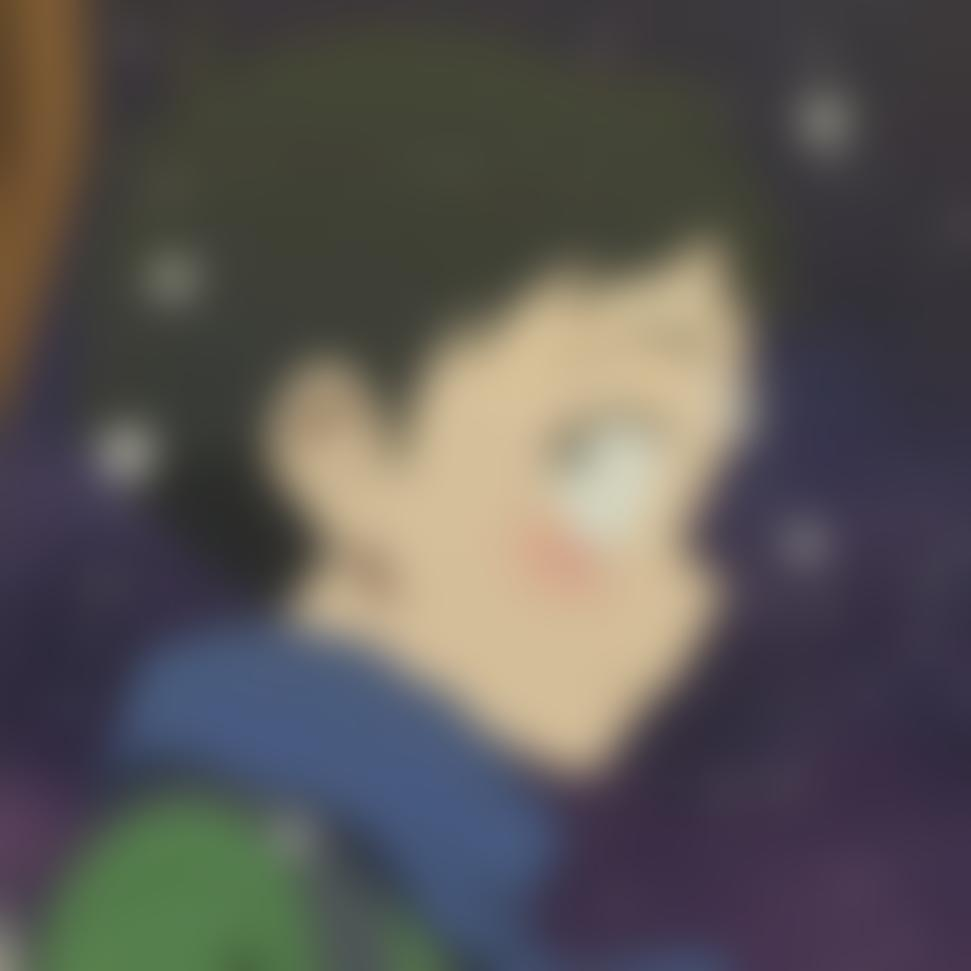
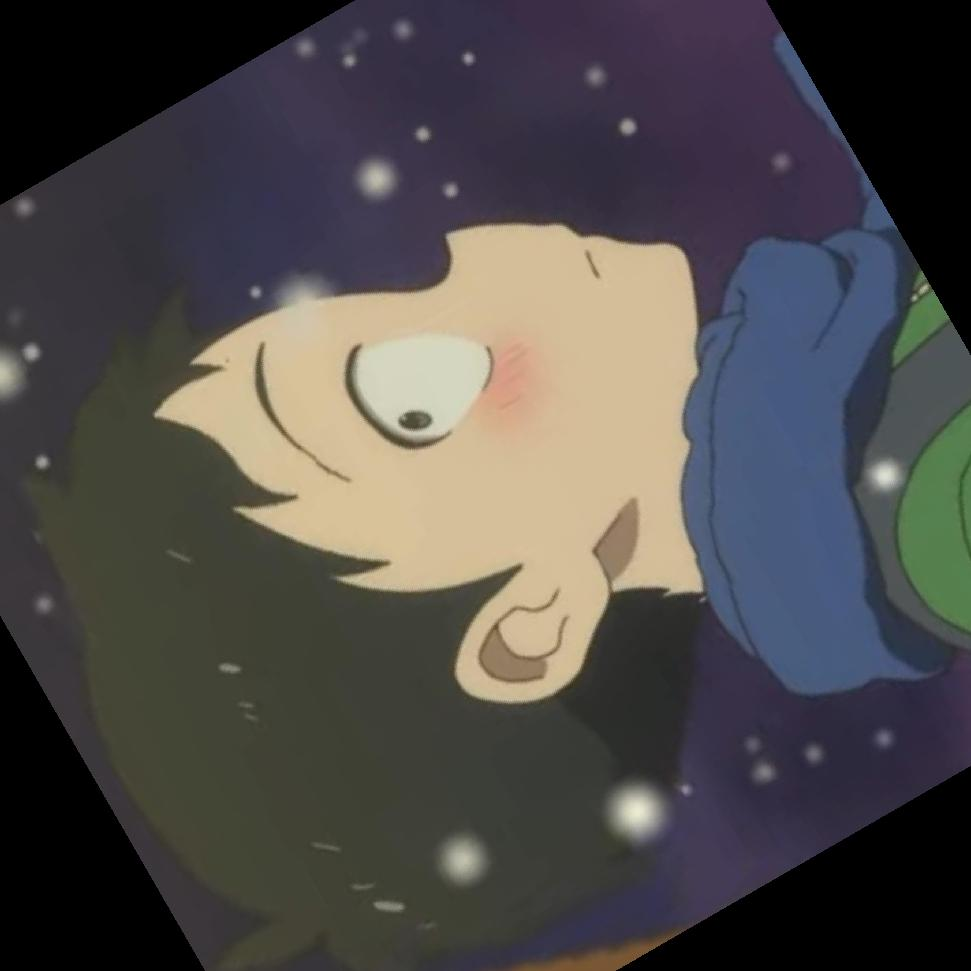
s4-RotatePictureToAngle

diff --git a/filters.py b/filters.py
@@ -9,6 +9,12 @@ def blurFilter(imgPath,bluringLvl):
     imgBlured.show()
     imgBlured.save(f'img/blured-{imgName}')
     return imgBlured
-        
 
+def rotateImg(imgPath, angle):
+    imgName = os.path.basename(imgPath)
+    img = Image.open(imgPath) 
+    imgRotated = img.rotate(angle)
+    imgRotated.show()
+    imgRotated.save(f'img/blured-{imgName}')
+    return imgRotated
 

diff --git a/main.py b/main.py
@@ -1,6 +1,4 @@
 from filters import *
 import os
 
-
 imgPath = input('Enter a path file :')
-blurFilter(imgPath,20)
